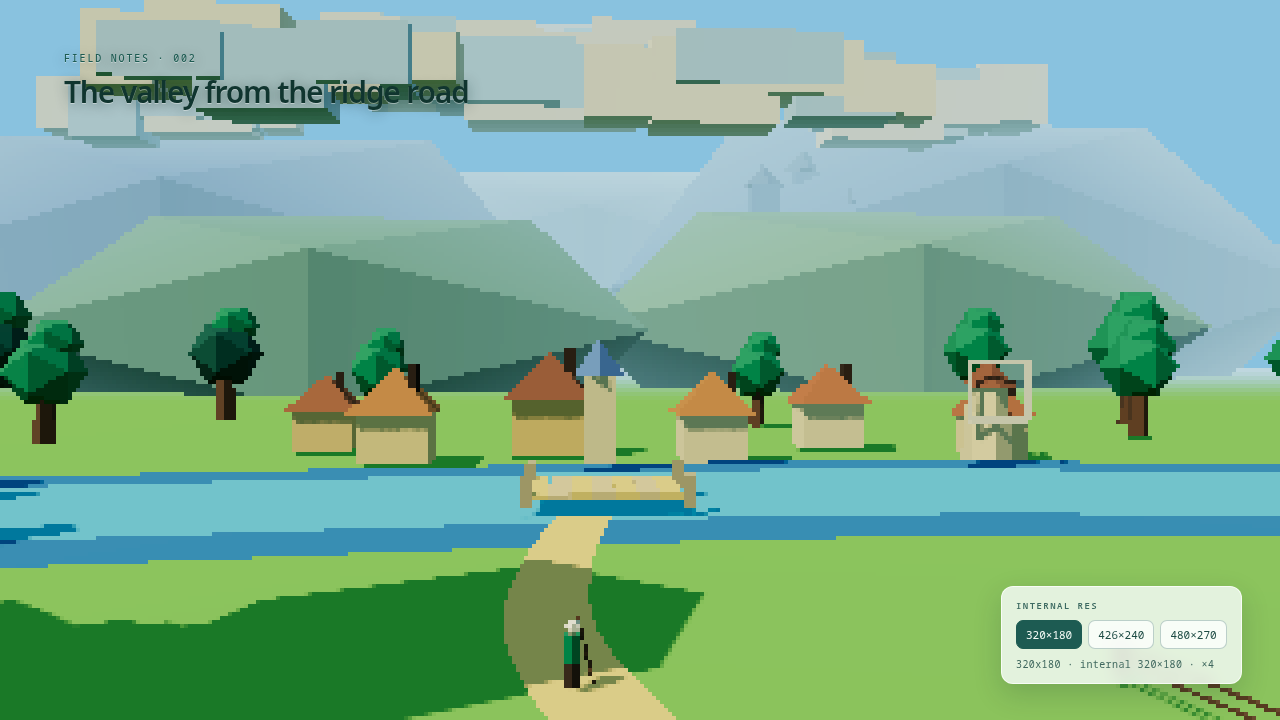
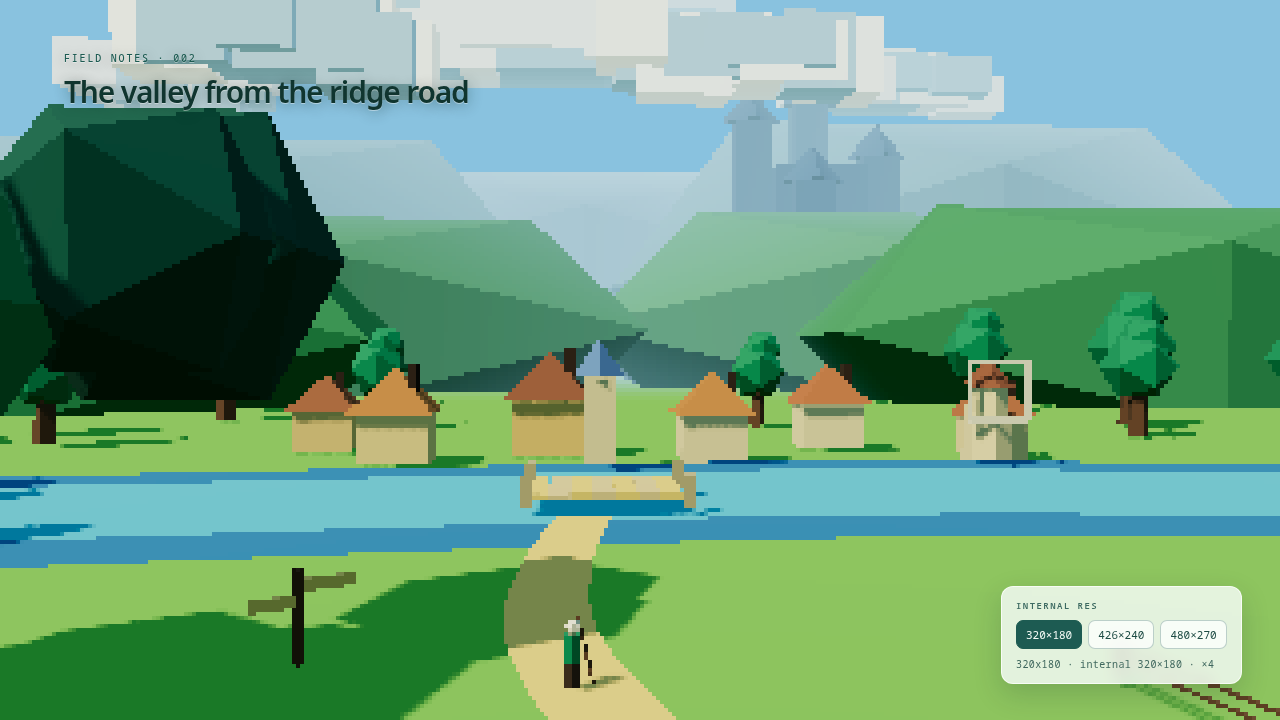
feat(world): strengthen the look-dev valley composition
Refine the look-dev scene after comparing captures against the owner
reference (docs/reference/valley-look-reference.png) side by side.

- Clouds: 9 stepped blocks, cream tops with cool shadowed undersides and a
  slight emissive so they stay luminous instead of picking up cast shadow.
  Raised and pushed back so they form an upper sky band rather than crowding
  down over the valley.
- Ridges: four staggered depth planes, each greener and more contrasted than
  the one behind it, so the valley reads as receding space. The near hills are
  no longer gray, which was flattening the frame into one washed-out band.
- Castle: deeper slate than its crag, taller varied towers, and a curtain
  wall, so it stays a legible silhouette through the fog.
- Foreground: the framing canopy and signpost were outside the frustum
  entirely. Repositioned within a few units of the camera and slimmed so the
  canopy overhangs the corner without blocking the valley.
- Shadows: widened the shadow camera to cover the whole visible scene.

Adds docs/LOOKDEV_NOTES.md with the approach, the measured layout table, the
resolution trade-off, and an honest list of gaps against the reference, plus
a reference-vs-output contact sheet. D-011 stays OPEN; the recommendation is
426x240 and the switcher remains either way.

Verified: npm test 20/20, npm run build clean, npm run capture reports no
console errors at any preset. Resolution changes leave layout untouched
[…]

diff --git a/src/world/valleyScene.ts b/src/world/valleyScene.ts
@@ -124,18 +124,29 @@ function cloud(x: number, y: number, z: number, scale: number): THREE.Group {
   const group = new THREE.Group();
   const rand = makeRandom(Math.round(x * 13 + y * 7 + z * 3) + 99);
 
-  const blocks = 7;
+  const blocks = 9;
   for (let i = 0; i < blocks; i += 1) {
     const t = i / (blocks - 1);
-    const w = 3.4 * scale * (1 - Math.abs(t - 0.5) * 0.9) * (0.8 + rand() * 0.5);
-    const h = 1.5 * scale * (0.7 + rand() * 0.6);
-    const d = 1.6 * scale * (0.7 + rand() * 0.5);
+    const w = 3.6 * scale * (1 - Math.abs(t - 0.5) * 0.85) * (0.85 + rand() * 0.4);
+    const h = 1.8 * scale * (0.75 + rand() * 0.55);
+    const d = 1.8 * scale * (0.75 + rand() * 0.45);
+    // Bright cream tops with cool shadowed undersides, as the art bible asks.
     const bright = i % 2 === 0;
     group.add(
       mesh(
         geo(new THREE.BoxGeometry(w, h, d)),
-        mat(facet(bright ? PALETTE.cloudCream : PALETTE.cloudShadow)),
-        [(t - 0.5) * 6 * scale, (rand() - 0.3) * 0.7 * scale, 0],
+        mat(
+          new THREE.MeshStandardMaterial({
+            color: bright ? '#FFFDF2' : PALETTE.cloudShadow,
+            roughness: 1,
+            // Clouds are lit by the sky rather than by hard shadowing, so they
+            // stay luminous instead of picking up dark cast shadow.
+            flatShading: true,
+            emissive: new THREE.Color(bright ? '#FFF6DC' : '#8FB6CE'),
+            emissiveIntensity: bright ? 0.42 : 0.2,
+          }),
+        ),
+        [(t - 0.5) * 6.4 * scale, (rand() - 0.25) * 0.9 * scale, (rand() - 0.5) * 1.2 * scale],
       ),
     );
   }
@@ -183,27 +194,34 @@ function fence(
 /** The distant castle: one memorable skyline landmark (ART_BIBLE.md §4.4). */
 function castle(x: number, y: number, z: number, scale: number): THREE.Group {
   const group = new THREE.Group();
-  const stone = mat(facet(PALETTE.slateBlue));
+  // A deeper slate than the surrounding crag so the keep separates from the
+  // rock it stands on instead of dissolving into it.
+  const stone = mat(facet('#4A6A96'));
 
-  const keep = mesh(geo(new THREE.BoxGeometry(2.4, 3.2, 2.0)), stone, [0, 1.6, 0]);
+  const keep = mesh(geo(new THREE.BoxGeometry(3.0, 4.0, 2.6)), stone, [0, 2.0, 0]);
   group.add(keep);
 
-  // Stepped towers; the tallest offsets the silhouette from a plain block.
+  // Stepped towers; varying heights keep the silhouette from reading as a box.
   const towers: Array<[number, number, number, number]> = [
-    [-1.7, 0, 0, 4.4],
-    [1.7, 0, 0.2, 3.6],
-    [0.2, 0, -1.2, 5.2],
+    [-2.1, 0, 0, 5.6],
+    [2.1, 0, 0.3, 4.4],
+    [0.2, 0, -1.5, 6.6],
+    [-0.4, 0, 1.6, 3.4],
   ];
   for (const [tx, , tz, th] of towers) {
-    group.add(mesh(geo(new THREE.BoxGeometry(1.0, th, 1.0)), stone, [tx, th / 2, tz]));
+    group.add(mesh(geo(new THREE.BoxGeometry(1.2, th, 1.2)), stone, [tx, th / 2, tz]));
     group.add(
-      mesh(geo(new THREE.ConeGeometry(0.85, 0.9, 4)), mat(facet(PALETTE.coolBlueGray)), [
+      mesh(geo(new THREE.ConeGeometry(1.0, 1.2, 4)), mat(facet('#3D5C86')), [
         tx,
-        th + 0.45,
+        th + 0.6,
         tz,
       ]),
     );
   }
+
+  // A connecting curtain wall ties the towers into one mass.
+  group.add(mesh(geo(new THREE.BoxGeometry(4.6, 1.8, 0.8)), stone, [0, 0.9, 0.9]));
+  group.add(mesh(geo(new THREE.BoxGeometry(0.8, 1.8, 3.2)), stone, [0, 0.9, -0.6]));
 
   group.position.set(x, y, z);
   group.scale.setScalar(scale);
@@ -351,18 +369,21 @@ export function buildValleyScene(): ValleyScene {
   camera.position.set(-2.5, 7, 26);
   camera.lookAt(2, 6, -40);
 
-  // Warm key light from the upper left, matching the reference's sun.
-  const sun = new THREE.DirectionalLight('#FFF3D0', 2.9);
-  sun.position.set(-22, 30, 18);
+  // Warm key light from the upper left, matching the reference's sun. The light
+  // is positioned high and far so its direction is nearly constant across the
+  // valley and the shadow frustum can cover the whole visible scene.
+  const sun = new THREE.DirectionalLight('#FFF3D0', 3.1);
+  sun.position.set(-48, 62, 40);
   sun.castShadow = true;
   sun.shadow.mapSize.set(2048, 2048);
   sun.shadow.camera.near = 1;
-  sun.shadow.camera.far = 140;
-  sun.shadow.camera.left = -46;
-  sun.shadow.camera.right = 46;
-  sun.shadow.camera.top = 46;
-  sun.shadow.camera.bottom = -34;
-  sun.shadow.normalBias = 0.08;
+  sun.shadow.camera.far = 260;
+  sun.shadow.camera.left = -90;
+  sun.shadow.camera.right = 90;
+  sun.shadow.camera.top = 90;
+  sun.shadow.camera.bottom = -60;
+  sun.shadow.normalBias = 0.12;
+  sun.shadow.bias = -0.0006;
   scene.add(sun);
 
   // Sky/ground ambient keeps shadow interiors cool and legible.
@@ -381,11 +402,17 @@ export function buildValleyScene(): ValleyScene {
   // Kept behind the fog start so they read as soft atmospheric silhouettes and
   // never dominate the composition (ART_BIBLE.md §3 "distant terrain loses
   // contrast", §7 "layered distant landmarks").
-  scene.add(ridge(-78, -190, 86, 40, 34, PALETTE.slateBlue));
-  scene.add(ridge(84, -200, 92, 46, 38, PALETTE.slateBlue));
+  // Layered ridges: four staggered depth planes, each greener and more
+  // contrasted than the one behind it, so the valley reads as receding space
+  // rather than a single backdrop (ART_BIBLE.md §4.5).
+  scene.add(ridge(-40, -140, 58, 22, 26, '#4E8F63'));
+  scene.add(ridge(52, -148, 62, 24, 28, '#57996A'));
+  // A closer, fully saturated hill mass behind the village.
+  scene.add(ridge(-64, -96, 46, 18, 22, '#3F8A57'));
+  scene.add(ridge(72, -102, 50, 20, 24, '#468F5D'));
+  scene.add(ridge(-78, -190, 86, 40, 34, '#6C97A8'));
+  scene.add(ridge(84, -200, 92, 46, 38, '#6C97A8'));
   scene.add(ridge(0, -240, 110, 42, 40, PALETTE.coolBlueGray));
-  scene.add(ridge(-40, -140, 58, 22, 26, '#6F9B86'));
-  scene.add(ridge(52, -148, 62, 24, 28, '#77A183'));
 
   // --- Water: broad calm shapes with a distinct shore boundary --------------
   // A wide river/lake band sitting between the near bank and the village. It is
@@ -502,40 +529,43 @@ export function buildValleyScene(): ValleyScene {
 
   // --- Foreground frame: canopy at the left edge, oversized and close ------
   // A near tree whose canopy clips the top-left corner is what makes the shot
-  // feel framed rather than merely observed (ART_BIBLE.md §4.1).
+  // feel framed rather than merely observed (ART_BIBLE.md §4.1). The trunk is
+  // kept thin and off to the left so it frames without blocking the valley.
   const frameRand = makeRandom(4242);
   const frameTree = new THREE.Group();
   const trunk = mesh(
-    geo(new THREE.CylinderGeometry(0.9, 1.3, 22, 6)),
+    geo(new THREE.CylinderGeometry(0.32, 0.5, 13, 6)),
     mat(facet(PALETTE.warmBark)),
-    [0, 8.5, 0],
+    [0, 6, 0],
   );
-  trunk.rotation.z = 0.08;
+  trunk.rotation.z = 0.1;
   const frameCanopy = new THREE.Group();
-  for (let i = 0; i < 7; i += 1) {
-    const size = 5 + frameRand() * 3.4;
+  for (let i = 0; i < 8; i += 1) {
+    const size = 4.4 + frameRand() * 3.0;
     const clump = mesh(
       geo(new THREE.IcosahedronGeometry(size, 0)),
       mat(facet(i % 3 === 0 ? PALETTE.emerald : PALETTE.deepForest)),
       [
-        (frameRand() - 0.35) * 17,
-        19 + (frameRand() - 0.4) * 6,
-        (frameRand() - 0.5) * 13,
+        (frameRand() - 0.3) * 20,
+        13 + (frameRand() - 0.4) * 6,
+        (frameRand() - 0.5) * 15,
       ],
     );
     frameCanopy.add(clump);
   }
   frameTree.add(trunk, frameCanopy);
-  // Positioned just off the left edge of frame so the canopy overhangs the
-  // corner without covering the valley.
-  frameTree.position.set(-30, 0, 16);
+  // The canopy must sit within a few units of the camera to enter the frame at
+  // all: at this FOV a tree much further back or further left falls entirely
+  // outside the frustum. Placed so the clumps overhang the upper-left corner.
+  frameTree.position.set(-16.5, 0, 7);
+  frameTree.scale.setScalar(0.55);
   scene.add(frameTree);
 
   // A second, smaller tree on the right keeps the frame balanced.
   scene.add(tree(30, 4, 8.5, PALETTE.emerald));
   scene.add(tree(-40, -20, 7, PALETTE.deepForest));
 
-  scene.add(signpost(-15, 12));
+  scene.add(signpost(-8.5, 4));
 
   const rockSpecs: Array<[number, number, number, string]> = [
     [-9.5, 17, 1.8, '#B9A87E'],
@@ -577,19 +607,24 @@ export function buildValleyScene(): ValleyScene {
   );
 
   // --- Sky: large stepped cloud masses, built from stacked boxes -----------
-  scene.add(cloud(-46, 46, -120, 6.5));
-  scene.add(cloud(-14, 54, -150, 8.0));
-  scene.add(cloud(26, 48, -128, 6.8));
-  scene.add(cloud(62, 52, -160, 6.0));
-  scene.add(cloud(-76, 50, -164, 5.4));
-  scene.add(cloud(6, 66, -190, 7.2));
+  // High and far, so they sit in the upper sky as a band rather than crowding
+  // down over the valley.
+  scene.add(cloud(-52, 58, -150, 6.0));
+  scene.add(cloud(-16, 68, -180, 7.4));
+  scene.add(cloud(28, 60, -158, 6.2));
+  scene.add(cloud(68, 64, -190, 5.6));
+  scene.add(cloud(-86, 62, -190, 5.0));
+  scene.add(cloud(8, 82, -220, 6.6));
 
   // --- The distant adventure landmark --------------------------------------
   // A broad, low summit crag with the castle on top. The crag is wide and flat
   // rather than tall, so it reads as a rock plateau instead of a boulder that
   // blocks the valley behind it.
-  scene.add(ridge(46, -178, 52, 20, 34, PALETTE.coolBlueGray));
-  scene.add(castle(46, 17, -178, 5.2));
+  scene.add(ridge(46, -172, 54, 21, 34, PALETTE.coolBlueGray));
+  // Pulled closer than the outermost ridges so fog leaves it a legible
+  // silhouette rather than dissolving it into the sky (ART_BIBLE.md §7: the
+  // castle "must remain a recognizable silhouette").
+  scene.add(castle(46, 18, -172, 6.0));
 
   return {
     scene,

diff --git a/docs/LOOKDEV_NOTES.md b/docs/LOOKDEV_NOTES.md
@@ -1,0 +1,144 @@
+# T00-002 — Pixel Look-Dev Notes
+
+Technical notes for the low-resolution look-dev scene. **D-011 (exact internal
+resolution) remains OPEN.** Nothing here is a locked art decision; the owner
+makes the visual acceptance call.
+
+## 1. Approach
+
+Three.js renders the scene into a `WebGLRenderTarget`, and that target is then
+presented through a full-screen quad. Both the target texture and its sampling
+use `NearestFilter`, and mipmaps are disabled, so the upscale is a true
+nearest-neighbour pixel expansion rather than a blurred stretch.
+
+The upscale happens on the GPU inside the render pipeline. It is **not** CSS
+scaling and **not** screenshot scaling, which ART_BIBLE.md §5 rules out.
+`renderer.setPixelRatio(1)` keeps high-DPI scaling from fighting the upscale.
+
+Code:
+
+- `src/render/pixelConfig.ts` — pure sizing arithmetic (unit-tested).
+- `src/render/pixelPipeline.ts` — render target, nearest filtering, present pass.
+- `src/world/valleyScene.ts` — scene content and palette.
+- `scripts/capture-lookdev.mjs` — headless capture and smoke check.
+
+### Internal size is derived, not fixed
+
+A preset sets the pixel *budget* (its area), not a fixed buffer. The layout pass
+preserves that budget while matching the live viewport aspect ratio, so the 3D
+world is never stretched by the preset choice. The upscale factor is always a
+whole number; a fractional factor would place source pixels across partial
+destination pixels and produce uneven, shimmering clusters.
+
+Measured behaviour (headless Chromium, `deviceScaleFactor: 1`):
+
+| Viewport | Preset | Internal target | Upscale |
+|---|---|---|---|
+| 1280×720 | 426×240 | 427×240 | ×2 |
+| 1280×720 | 320×180 | 320×180 | ×4 |
+| 1600×900 | 320×180 | 320×180 | ×5 |
+| 1024×768 (4:3) | 320×180 | 277×208 | ×3 |
+
+Changing the preset leaves the CSS layout untouched (canvas stays 1280×720 in
+all cases), satisfying "internal resolution can be changed without changing
+layout dimensions".
+
+## 2. Candidate resolutions captured
+
+All at a **1280×720 viewport**, `deviceScaleFactor: 1`, captured through the
+app's own pipeline. Evidence in `docs/evidence/T00-002/`.
+
+| Preset | Internal | Upscale | File |
+|---|---|---|---|
+| 320×180 | 320×180 | ×4 | `valley-320x180.png` |
+| 426×240 | 427×240 | ×2 | `valley-426x240.png` |
+| 480×270 | 480×270 | ×2 | `valley-480x270.png` |
+
+`comparison-reference-vs-lookdev.png` places the owner reference beside two of
+these for direct comparison.
+
+## 3. Composition against the art bible
+
+ART_BIBLE.md §4 asks for five things; the scene provides one of each:
+
+1. **Foreground frame** — a near canopy overhanging the upper-left + a signpost.
+2. **Winding route inward** — a sandy road curving down to a bridge.
+3. **Human-scale midground destination** — the village on the far riverbank.
+4. **One distant landmark** — the castle on its crag.
+5. **Layered ridges + sky room** — four staggered ridge planes and a cloud band.
+
+## 4. Comparison with the reference
+
+Honest assessment of the committed captures against
+`docs/reference/valley-look-reference.png`:
+
+**Reads correctly:**
+- pixel clusters are chunky and deliberate, and clearly coarser than the
+  reference's painterly surface — which is the direction the art bible asks for;
+- the luminous green / cyan-blue / warm-ochre family is present, and the village
+  reads as a warm anchor against the cool landscape;
+- distant ridges lose contrast toward blue-gray and the castle stays a readable
+  silhouette;
+- layering (frame → route → village → ridges → sky) is legible.
+
+**Weaker than the reference (known gaps):**
+- **Less depth.** The reference stacks many overlapping hills with soft haze
+  between them; this scene has four ridge planes and reads flatter.
+- **Tree canopies are simple icosahedra.** They give a good silhouette but lack
+  the reference's layered clumps and sun-facing color planes.
+- **Clouds are boxes.** They step crisply, which is wanted, but they are blunter
+  than the reference's soft, rounded masses.
+- **No fine ground detail.** The reference has flowers, grass tufts, and rock
+  texture; here the meadow is a flat color field.
+- **Water is flat.** No reflections of the village, which the reference has.
+
+These are scene-content gaps, not pipeline defects. They belong to later tickets
+(T01-001 valley blockout), not to this look-dev experiment.
+
+## 5. Resolution trade-off observation
+
+At the captured gameplay distance:
+
+- **320×180 (×4)** — strongest pixel identity; the traveler's limbs and the thin
+  fence rails start to break up, and the windmill blades merge.
+- **426×240 (×2)** — the middle ground; silhouettes hold and the pixel size is
+  still clearly deliberate.
+- **480×270 (×2)** — the most readable; detail is best but the pixel treatment
+  is the least pronounced of the three.
+
+**Recommendation to the owner:** 426×240 is the best current trade-off, and it
+upscales by a clean ×2 at 1280×720. This is a recommendation only — D-011 is the
+owner's decision, and the switcher remains in the build either way.
+
+## 6. Known technical limitations
+
+- Upscale is integer-only. At viewport sizes where the target fits fewer than two
+  whole times, the image is upscaled ×1 and does not fill the viewport
+  edge-to-edge. The `display` box is reported in the layout so a future ticket can
+  letterbox deliberately instead.
+- The 426×240 preset is 1.775 rather than exactly 1.778. This is the value the
+  art bible names; the layout pass re-derives exact size from the live aspect, so
+  the world is still unstretched.
+- The capture script runs Vite in-process and launches headless Chromium with
+  SwiftShader (software WebGL). It is a smoke/evidence tool, not a performance
+  benchmark.
+- `scripts/` is not covered by `tsconfig.json` (`include: ["src"]`), so the
+  capture script is plain `.mjs` and checked by execution rather than by `tsc`.
+
+## 7. Reproducing
+
+```sh
+npm install
+npm test          # 20 tests
+npm run build     # typecheck + production build
+npm run capture   # writes docs/evidence/T00-002/
+npm run dev       # then open http://localhost:5173
+```
+
+Use `?res=320x180`, `?res=426x240`, or `?res=480x270` to force a preset, or the
+on-screen switcher.
+
+## 8. Owner gate status
+
+**Awaiting owner review.** The pipeline is implemented and verified; the look is
+not accepted. D-011 stays OPEN and no visual direction is locked.

diff --git a/README.md b/README.md
@@ -71,3 +71,30 @@ To run the unit tests (Vitest), and to typecheck without emitting:
 npm test
 npm run typecheck
 ```
+
+### Look-dev controls
+
+The scene renders through a low-resolution pixel pipeline. Switch the internal
+resolution with the on-screen control, or with a query parameter:
+
+```
+http://localhost:5173/?res=320x180
+http://localhost:5173/?res=426x240
+http://localhost:5173/?res=480x270
+```
+
+The internal size is derived from the viewport, so it changes with the window
+while the upscale stays a whole-number nearest-neighbour expansion. The current
+internal resolution and upscale factor are shown in the panel.
+
+To capture screenshot evidence headlessly (Chromium via Playwright) at every
+preset, and to fail on any console error:
+
+```sh
+npm run capture
+```
+
+Output goes to `docs/evidence/T00-002/`. See [docs/LOOKDEV_NOTES.md](docs/LOOKDEV_NOTES.md)
+for the pipeline notes, the resolution trade-offs, and the known gaps against the
+reference image.
+
